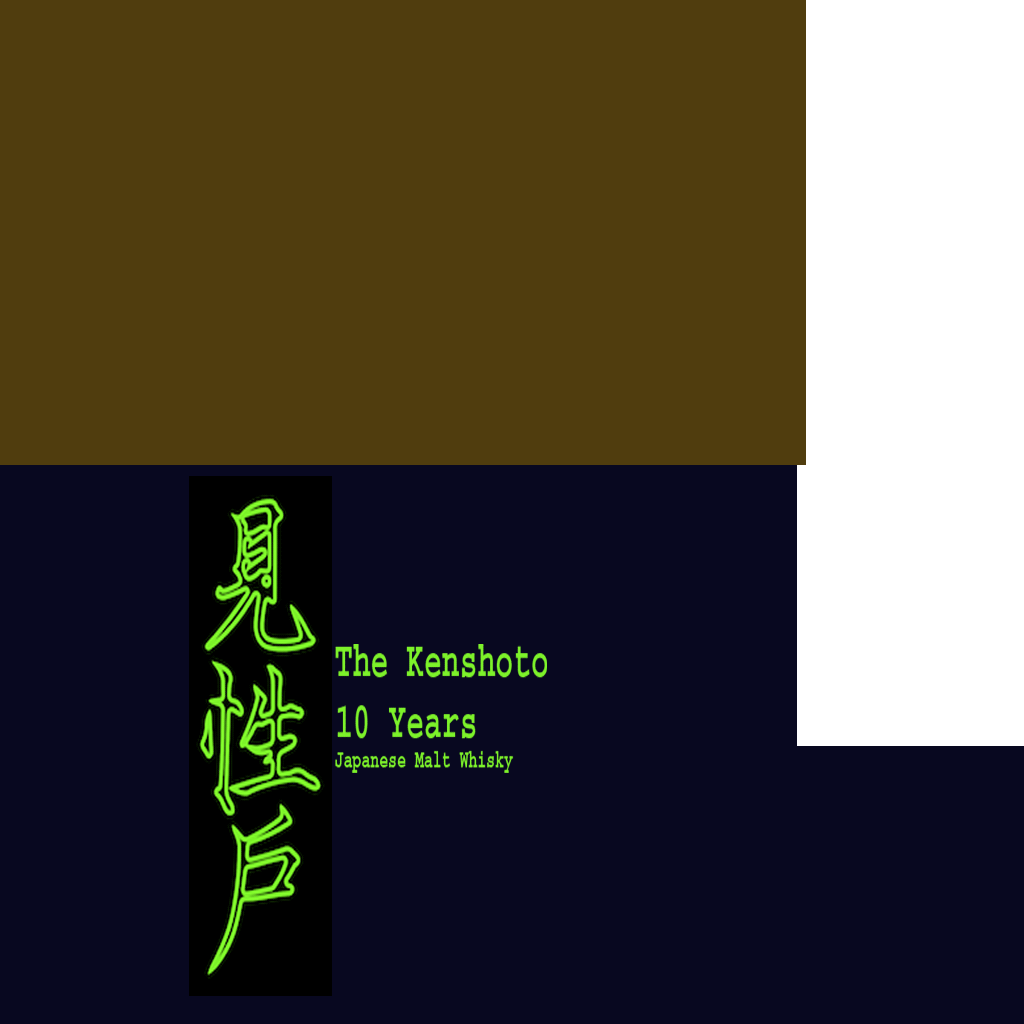
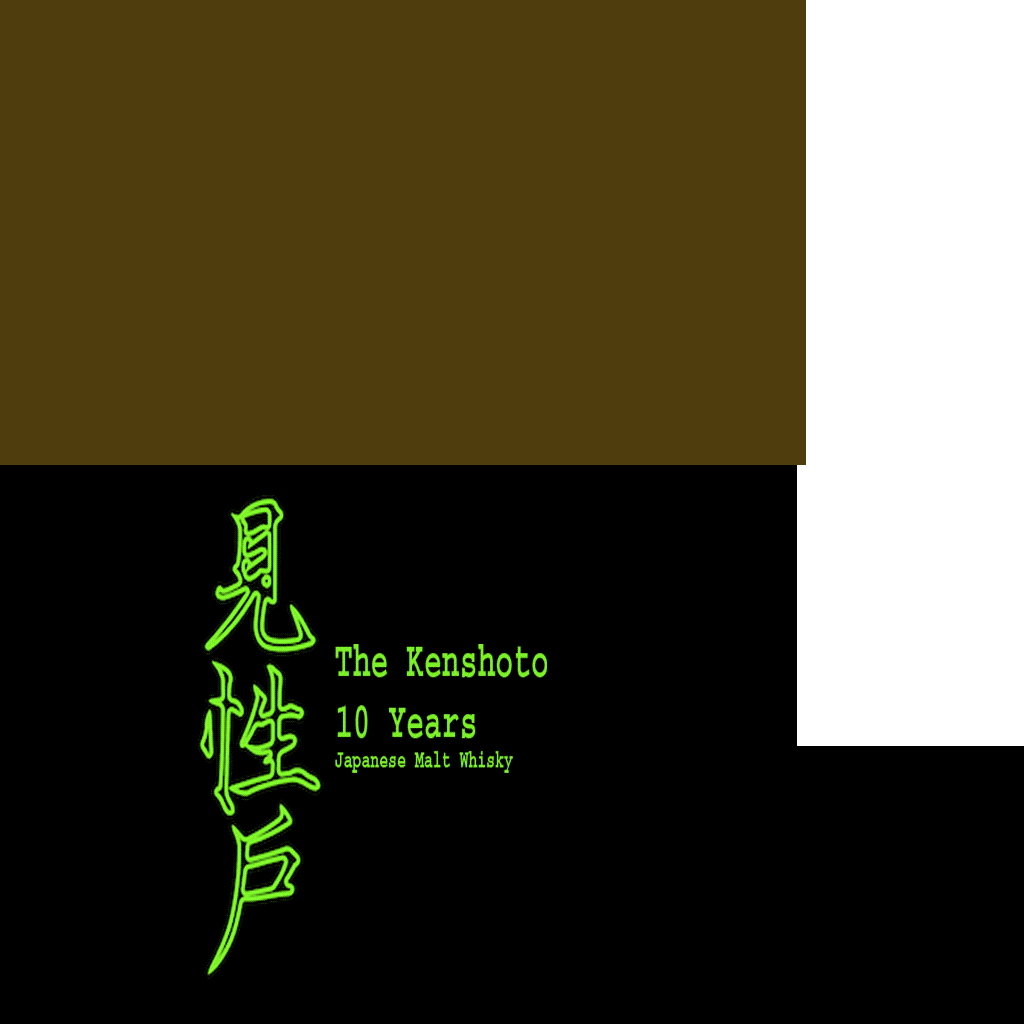
turn down the lights

diff --git a/source/style.css.sass b/source/style.css.sass
@@ -23,10 +23,10 @@ body
       padding: 1em
       color: $amber
       margin-top: 20px
-      text-shadow: black 0 0 4px
+      //text-shadow: black 0 0 4px
       h1, h2, h3, h4, h5, h6
         font-family: Michroma
-        text-shadow: 4px black
+        //text-shadow: 4px black
         margin: 0
       #yearText
         text-indent: -9999px
@@ -42,7 +42,7 @@ body
         border-left: 1px solid $amber
         padding: 0 0.4em
         margin: 0
-        text-shadow: black 0 0 4px
+        //text-shadow: black 0 0 4px
         &:first-child
           border-left: none
     nav
